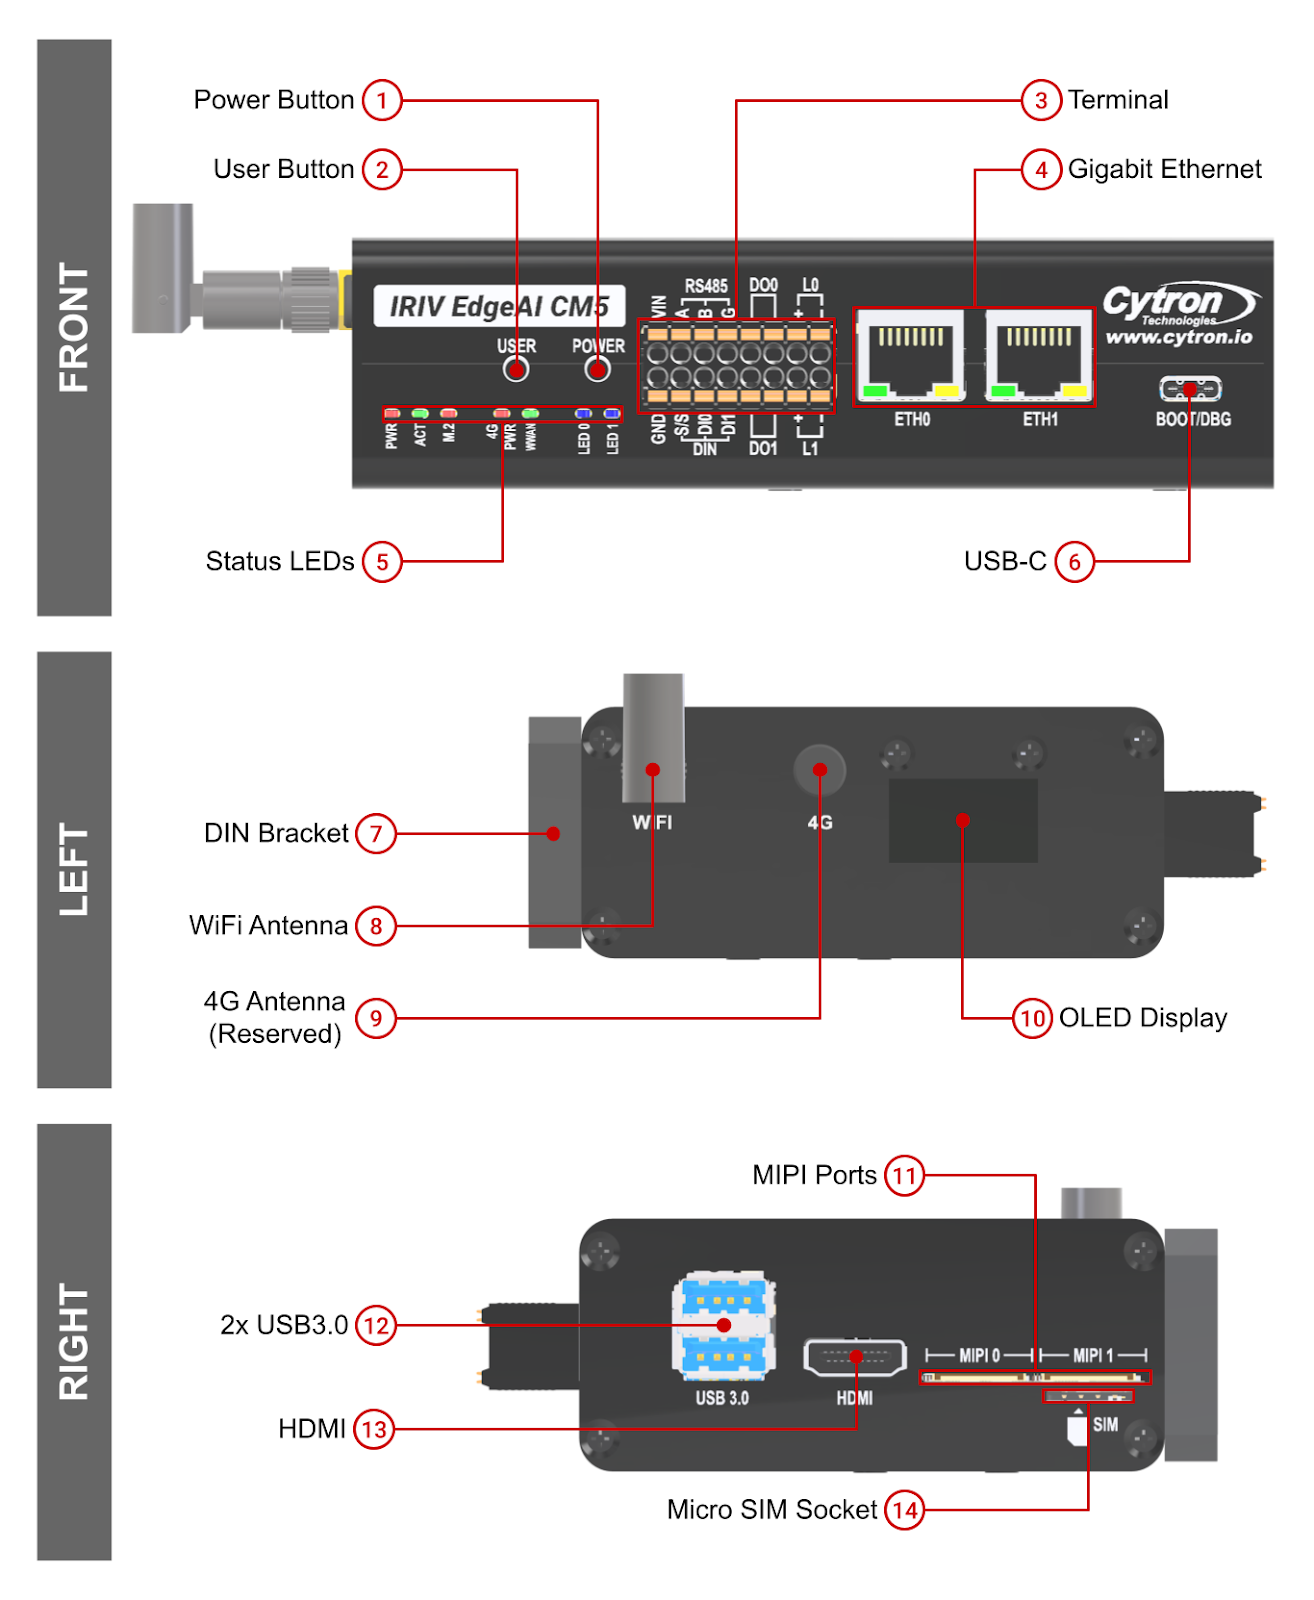
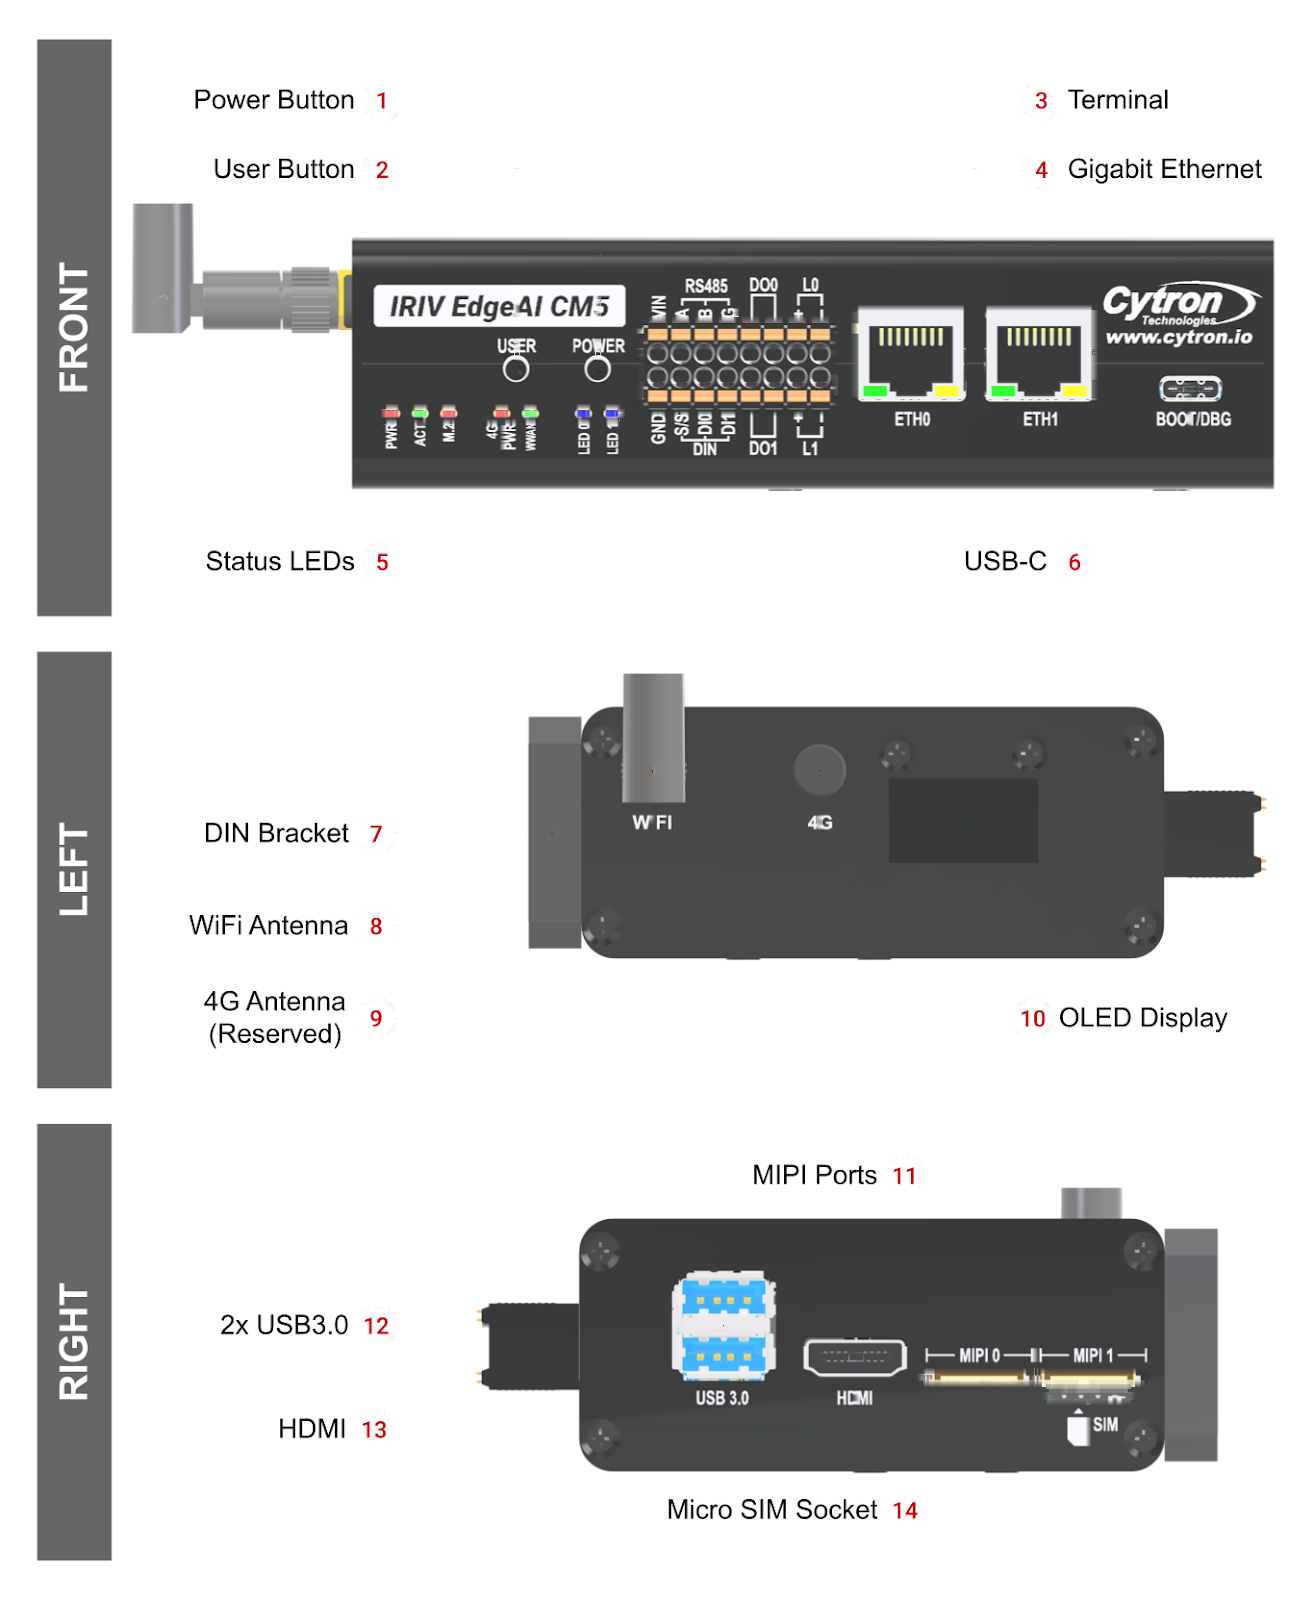
Board card: outlines that follow each part, on a picture without callout lines
The red leader lines, boxes and numbers are erased from the layout picture
(pixels refilled from their neighbours, so the lettering under a line comes
back). Each readable port is now an outline in the state colour that follows
the part: a box round a jack, a USB socket or a terminal group, a circle
round the button and the antenna socket. The header says whether the state
is live or still being read.

diff --git a/frontend/src/components/BoardGuideCard.jsx b/frontend/src/components/BoardGuideCard.jsx
@@ -34,26 +34,33 @@ const IMG = {
 };
 const LAYOUT_W = 1314, LAYOUT_H = 1600;
 
-//: Where each port is on the layout picture, in its pixels, per view.
+//: Where each port is on the layout picture, in its pixels, per view: an
+//: outline that follows the part (a box round a jack or a terminal group, a
+//: circle round a button or a socket).
 const FRONT = {
   box: "340 230 960 270",
   spots: [
-    { id: "BUTTON", x: 516, y: 372, r: 10 }, { id: "RS485", x: 703, y: 355, r: 6 },
-    { id: "DO0", x: 764, y: 355, r: 6 }, { id: "L0", x: 811, y: 355, r: 6 },
-    { id: "DI0", x: 703, y: 382, r: 6 }, { id: "DI1", x: 727, y: 382, r: 6 },
-    { id: "DO1", x: 764, y: 382, r: 6 }, { id: "L1", x: 811, y: 382, r: 6 },
-    { id: "ETH0", x: 907, y: 355, r: 12 }, { id: "ETH1", x: 1040, y: 355, r: 12 }
+    { id: "BUTTON", shape: "circle", x: 516, y: 372, r: 15 },
+    { id: "RS485", shape: "rect", x: 667, y: 338, w: 74, h: 33 },
+    { id: "DI0", shape: "rect", x: 691, y: 369, w: 24, h: 27 },
+    { id: "DI1", shape: "rect", x: 715, y: 369, w: 25, h: 27 },
+    { id: "DO0", shape: "rect", x: 740, y: 338, w: 48, h: 33 },
+    { id: "DO1", shape: "rect", x: 740, y: 369, w: 48, h: 27 },
+    { id: "L0", shape: "rect", x: 788, y: 338, w: 48, h: 33 },
+    { id: "L1", shape: "rect", x: 788, y: 369, w: 48, h: 27 },
+    { id: "ETH0", shape: "rect", x: 853, y: 298, w: 113, h: 113 },
+    { id: "ETH1", shape: "rect", x: 985, y: 298, w: 113, h: 113 },
   ],
 };
 const LEFT = {
   box: "500 660 790 320",
-  spots: [ { id: "WIFI", x: 653, y: 770, r: 11 }
-  ],
+  spots: [{ id: "WIFI", shape: "circle", x: 653, y: 775, r: 24 }],
 };
 const RIGHT = {
   box: "470 1190 790 300",
   spots: [
-    { id: "USB0", x: 725, y: 1300, r: 11 }, { id: "USB1", x: 725, y: 1350, r: 11 }
+    { id: "USB0", shape: "rect", x: 678, y: 1270, w: 96, h: 54 },
+    { id: "USB1", shape: "rect", x: 678, y: 1324, w: 96, h: 54 },
   ],
 };
 
@@ -159,11 +166,15 @@ function View({ view, states, selected, onSelect, label }) {
              onClick={() => onSelect(s.id)}
              onKeyDown={(e) => { if (e.key === "Enter" || e.key === " ") onSelect(s.id); }}>
             <title>{`${st?.label || s.id}${st?.status ? ` - ${st.status}` : ""}`}</title>
-            {sel && <circle cx={s.x} cy={s.y} r={s.r + 7} fill="none" stroke="#04bade" strokeWidth="2.5" className="bg-spot-ring" />}
-            <circle cx={s.x} cy={s.y} r={s.r + 2.5} fill="#ffffff" opacity="0.95" />
-            <circle cx={s.x} cy={s.y} r={s.r} fill={st?.tone === "unknown" ? "none" : tone}
-                    stroke={tone} strokeWidth={st?.tone === "unknown" ? 2 : 0}
-                    strokeDasharray={st?.tone === "unknown" ? "3 2" : undefined} />
+            {s.shape === "circle" ? (
+              <circle cx={s.x} cy={s.y} r={s.r} fill={tone} fillOpacity={sel ? 0.3 : 0.16}
+                      stroke={tone} strokeWidth={sel ? 6 : 4}
+                      strokeDasharray={st?.tone === "unknown" ? "8 5" : undefined} />
+            ) : (
+              <rect x={s.x} y={s.y} width={s.w} height={s.h} rx="5" fill={tone} fillOpacity={sel ? 0.3 : 0.16}
+                    stroke={tone} strokeWidth={sel ? 6 : 4}
+                    strokeDasharray={st?.tone === "unknown" ? "8 5" : undefined} />
+            )}
           </g>
         );
       })}
@@ -192,8 +203,9 @@ export default function BoardGuideCard() {
   const [error, setError] = useState("");
   const [selected, setSelected] = useState("ETH0");
   const [inside, setInside] = useState(false);
+  const [readAt, setReadAt] = useState(0);
   const load = useCallback(async () => {
-    try { setData(await api.get("/api/hub/board")); setError(""); }
+    try { setData(await api.get("/api/hub/board")); setError(""); setReadAt(Date.now()); }
     catch (e) { setError(e.message || "cannot read the board"); }
   }, []);
   useEffect(() => { load(); }, [load]);
@@ -213,8 +225,9 @@ export default function BoardGuideCard() {
           <div className="min-w-0">
             <h2 className="text-sm font-semibold leading-tight">IRIV Edge AI CM5 board</h2>
             <div className="mt-0.5 text-xs text-muted-foreground">
-              Every port the box can read, and what is on it right now. Hover a dot or a row.
+              Every port the box can read, and what is on it right now. Hover a part or a row.
               {data?.model ? ` · ${data.model}` : ""}
+              {" · "}{readAt ? "live, read every 2 s" : error ? "not read" : "reading…"}
               {data && data.detected === false ? " · this box is not an IRIV board, so the terminals cannot be read" : ""}
             </div>
           </div>
